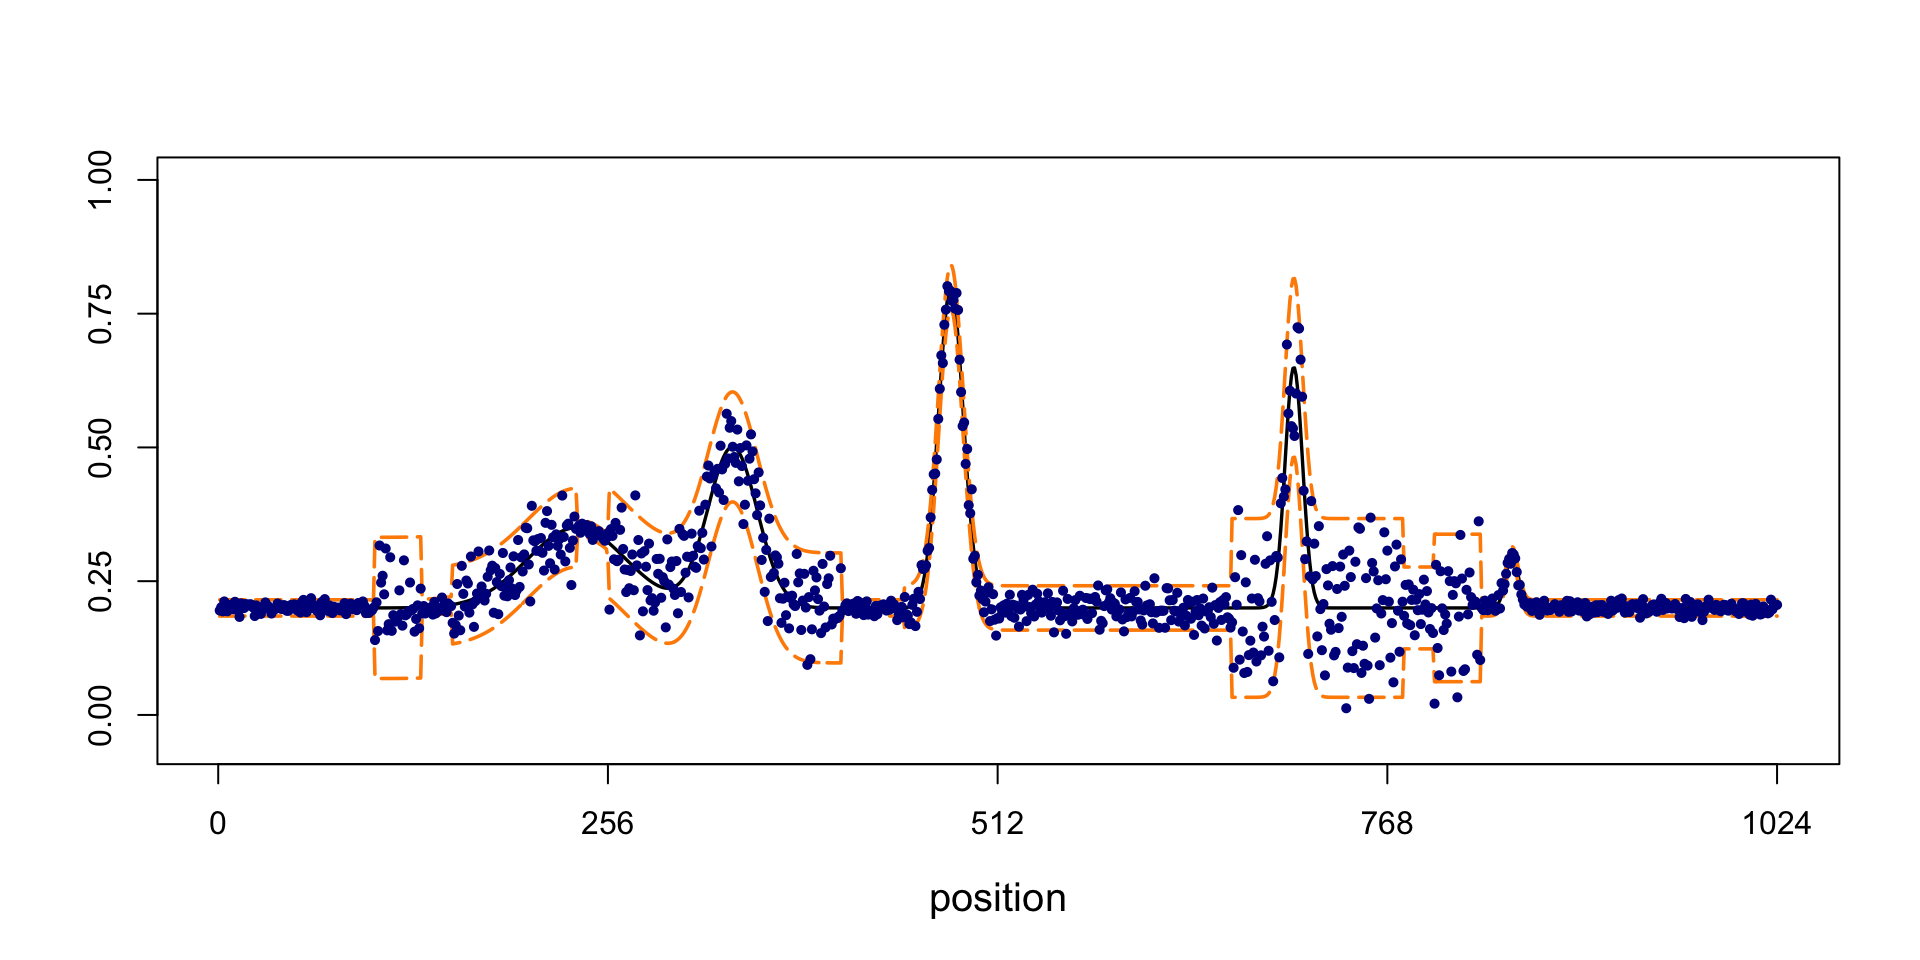
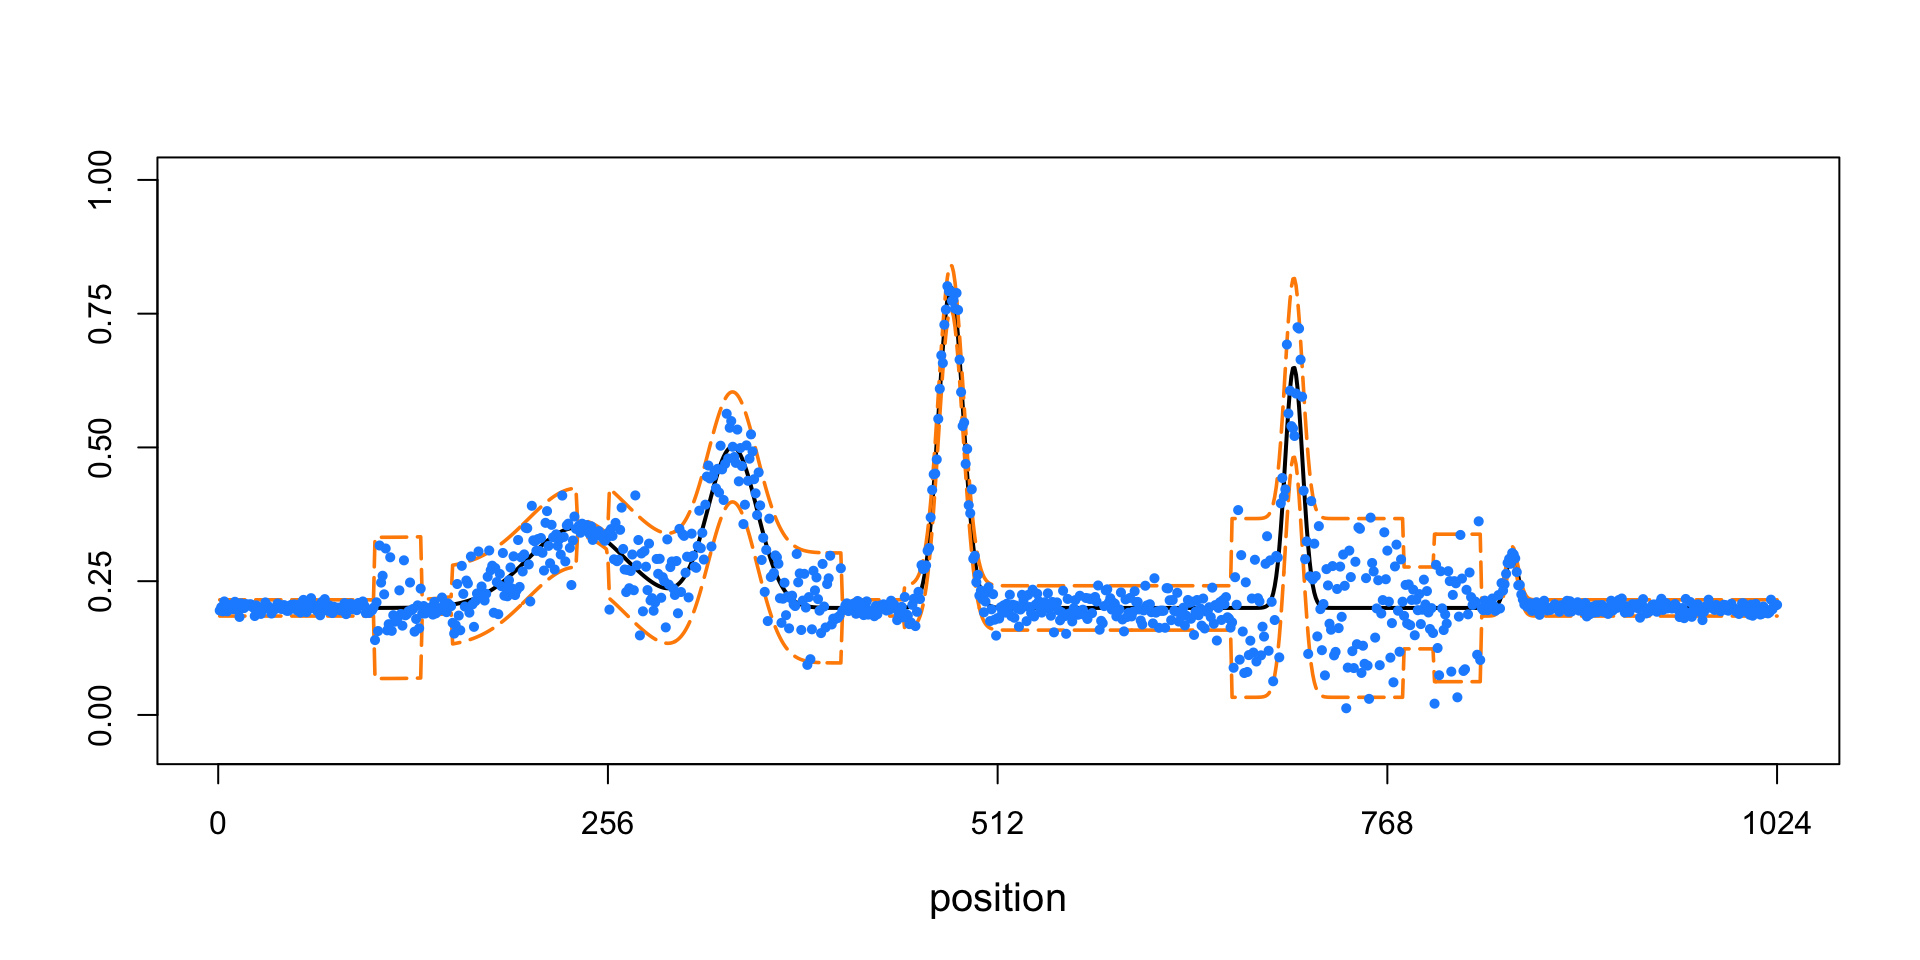
Added setup instructions to Spikes demo.

diff --git a/docs/spikesdemo.html b/docs/spikesdemo.html
@@ -26,9 +26,6 @@
 <script src="site_libs/navigation-1.1/tabsets.js"></script>
 <link href="site_libs/highlightjs-9.12.0/textmate.css" rel="stylesheet" />
 <script src="site_libs/highlightjs-9.12.0/highlight.js"></script>
-<link href="site_libs/font-awesome-5.0.13/css/fa-svg-with-js.css" rel="stylesheet" />
-<script src="site_libs/font-awesome-5.0.13/js/fontawesome-all.min.js"></script>
-<script src="site_libs/font-awesome-5.0.13/js/fa-v4-shims.min.js"></script>
 
 <style type="text/css">code{white-space: pre;}</style>
 <style type="text/css">
@@ -283,15 +280,12 @@ div.tocify {
     <div id="navbar" class="navbar-collapse collapse">
       <ul class="nav navbar-nav">
         <li>
-  <a href="index.html">Home</a>
+  <a href="index.html">Overview</a>
 </li>
       </ul>
       <ul class="nav navbar-nav navbar-right">
         <li>
-  <a href="https://github.com/stephenslab/smash-paper">
-    <span class="fa fa-github"></span>
-     
-  </a>
+  <a href="https://github.com/stephenslab/smash-paper">source</a>
 </li>
       </ul>
     </div><!--/.nav-collapse -->
@@ -321,36 +315,31 @@ div.section {
 </div>
 
 
-<p><strong>Last updated:</strong> 2018-10-12</p>
+<p><strong>Last updated:</strong> 2018-11-06</p>
 <strong>workflowr checks:</strong> <small>(Click a bullet for more information)</small>
 <ul>
 <li>
-<details>
-<p><summary> <strong style="color:blue;">✔</strong> <strong>R Markdown file:</strong> up-to-date </summary></p>
+<p><details> <summary> <strong style="color:blue;">✔</strong> <strong>R Markdown file:</strong> up-to-date </summary></p>
 <p>Great! Since the R Markdown file has been committed to the Git repository, you know the exact version of the code that produced these results.</p>
 </details>
 </li>
 <li>
-<details>
-<p><summary> <strong style="color:blue;">✔</strong> <strong>Environment:</strong> empty </summary></p>
+<p><details> <summary> <strong style="color:blue;">✔</strong> <strong>Environment:</strong> empty </summary></p>
 <p>Great job! The global environment was empty. Objects defined in the global environment can affect the analysis in your R Markdown file in unknown ways. For reproduciblity it’s best to always run the code in an empty environment.</p>
 </details>
 </li>
 <li>
-<details>
-<p><summary> <strong style="color:blue;">✔</strong> <strong>Seed:</strong> <code>set.seed(1)</code> </summary></p>
+<p><details> <summary> <strong style="color:blue;">✔</strong> <strong>Seed:</strong> <code>set.seed(1)</code> </summary></p>
 <p>The command <code>set.seed(1)</code> was run prior to running the code in the R Markdown file. Setting a seed ensures that any results that rely on randomness, e.g. subsampling or permutations, are reproducible.</p>
 </details>
 </li>
 <li>
-<details>
-<p><summary> <strong style="color:blue;">✔</strong> <strong>Session information:</strong> recorded </summary></p>
+<p><details> <summary> <strong style="color:blue;">✔</strong> <strong>Session information:</strong> recorded </summary></p>
 <p>Great job! Recording the operating system, R version, and package versions is critical for reproducibility.</p>
 </details>
 </li>
 <li>
-<details>
-<p><summary> <strong style="color:blue;">✔</strong> <strong>Repository version:</strong> <a href="https://github.com/stephenslab/smash-paper/tree/2841557f299d00337eda4d1536c342ecd4bbb7ce" target="_blank">2841557</a> </summary></p>
+<p><details> <summary> <strong style="color:blue;">✔</strong> <strong>Repository version:</strong> <a href="https://github.com/stephenslab/smash-paper/tree/f2e4790b8a3964136f44ddcb991b6114869af7e4" target="_blank">f2e4790</a> </summary></p>
 Great! You are using Git for version control. Tracking code development and connecting the code version to the results is critical for reproducibility. The version displayed above was the version of the Git repository at the time these results were generated. <br><br> Note that you need to be careful to ensure that all relevant files for the analysis have been committed to Git prior to generating the results (you can use <code>wflow_publish</code> or <code>wflow_git_commit</code>). workflowr only checks the R Markdown file, but you know if there are other scripts or data files that it depends on. Below is the status of the Git repository when the results were generated:
 <pre><code>
 Ignored files:
@@ -383,12 +372,10 @@ Ignored files:
     Ignored:    dsc/code/Wavelab850/MEXSource/dst_iii.mexmac
 
 </code></pre>
-Note that any generated files, e.g. HTML, png, CSS, etc., are not included in this status report because it is ok for generated content to have uncommitted changes.
-</details>
+Note that any generated files, e.g. HTML, png, CSS, etc., are not included in this status report because it is ok for generated content to have uncommitted changes. </details>
 </li>
 </ul>
-<details>
-<summary> <small><strong>Expand here to see past versions:</strong></small> </summary>
+<details> <summary> <small><strong>Expand here to see past versions:</strong></small> </summary>
 <ul>
 <table style="border-collapse:separate; border-spacing:5px;">
 <thead>
@@ -411,6 +398,40 @@ Message
 </tr>
 </thead>
 <tbody>
+<tr>
+<td style="text-align:left;">
+Rmd
+</td>
+<td style="text-align:left;">
+<a href="https://github.com/stephenslab/smash-paper/blob/f2e4790b8a3964136f44ddcb991b6114869af7e4/analysis/spikesdemo.Rmd" target="_blank">f2e4790</a>
+</td>
+<td style="text-align:left;">
+Peter Carbonetto
+</td>
+<td style="text-align:left;">
+2018-11-06
+</td>
+<td style="text-align:left;">
+wflow_publish(“spikesdemo.Rmd”)
+</td>
+</tr>
+<tr>
+<td style="text-align:left;">
+html
+</td>
+<td style="text-align:left;">
+<a href="https://cdn.rawgit.com/stephenslab/smash-paper/967f9c701367c2c25d630561e955437955feb31d/docs/spikesdemo.html" target="_blank">967f9c7</a>
+</td>
+<td style="text-align:left;">
+Peter Carbonetto
+</td>
+<td style="text-align:left;">
+2018-10-17
+</td>
+<td style="text-align:left;">
+Working on improved plots for chipseq.R.
+</td>
+</tr>
 <tr>
 <td style="text-align:left;">
 Rmd
@@ -618,17 +639,29 @@ wflow_publish(“spikesdemo.Rmd”)
 </tbody>
 </table>
 </ul>
-</details>
+<p></details></p>
 <hr />
-<p>This small demonstration illustrates key features of the SMASH method on a small, simulated data set with heteroskedastic variances. This code implements the example given in Sec. 4.1 of the paper.</p>
-<div id="set-up-environment" class="section level2">
-<h2>Set up environment</h2>
-<p>We begin by loading the ashr, smashr, scales, ggplot2 and cowplot packages, as well as some additional functions used in the code below.</p>
+<p>This small demonstration illustrates key features of the SMASH method on a small, simulated data set with spatially structured variances. This code implements the example presented in Sec. 4.1 of the paper.</p>
+<div id="initial-setup-instructions" class="section level2">
+<h2>Initial setup instructions</h2>
+<p>To run this example on your own computer, please follow these setup instructions. These instructions assume you already have R and/or RStudio installed on your computer.</p>
+<p>Download or clone the <a href="https://github.com/stephenslab/smash-paper">git repository</a> on your computer.</p>
+<p>Launch R, and change the working directory to be the <code>analysis</code> folder inside your local copy of the <code>smash-paper</code> git repository.</p>
+<p>Install some of the packages used here, and in the code below:</p>
+<pre class="r"><code>install.packages(c(&quot;devtools&quot;,&quot;ggplot2&quot;,&quot;cowplot&quot;))</code></pre>
+<p>Finally, install the ashr and smashr packages from GitHub:</p>
+<pre class="r"><code>library(devtools)
+install_github(&quot;stephens999/ashr&quot;,upgrade_dependencies = FALSE)
+install_github(&quot;stephenslab/smashr&quot;,upgrade_dependencies = FALSE)</code></pre>
+<p>See the “Session Info” at the bottom of this example for the versions of the software and R packages that were used to generate the results shown below.</p>
+</div>
+<div id="set-up-r-environment" class="section level2">
+<h2>Set up R environment</h2>
+<p>We begin by loading the ashr, smashr, ggplot2 and cowplot packages, as well as some additional functions used in the code below.</p>
 <pre class="r"><code>library(ashr)
 library(smashr)
-library(scales)
 library(ggplot2)
-suppressMessages(library(cowplot))
+library(cowplot)
 source(&quot;../code/misc.R&quot;)</code></pre>
 </div>
 <div id="define-the-spikes-mean-function" class="section level2">
@@ -647,7 +680,7 @@ mu.sp &lt;- (1 + mu.sp)/5</code></pre>
 </div>
 <div id="simulate-data" class="section level2">
 <h2>Simulate data</h2>
-<p>Simulate the noisy observations from the normal distribution with means that are given by the “spikes” function, and with spatially-structured variances given by the “clipped blocks” function.</p>
+<p>Simulate the noisy observations from the normal distribution with means that are given by the “Spikes” function, and with spatially structured variances given by the “Clipped Blocks” function.</p>
 <pre class="r"><code>pos &lt;- c(0.1,0.13,0.15,0.23,0.25,0.4,0.44,0.65,0.76,0.78,0.81)
 hgt &lt;- 2.88/5 * c(4,-5,3,-4,5,-4.2,2.1,4.3,-3.1,2.1,-4.2)
 sig.cb &lt;- rep(0,length(t))
@@ -661,14 +694,13 @@ x.sim  &lt;- rnorm(n,mu.sp,sig.cb)</code></pre>
 <p>Plot the simulated data set.</p>
 <pre class="r"><code>par(cex.axis = 1,cex.lab = 1.25)
 plot(mu.sp,type = &#39;l&#39;,ylim = c(-0.05,1),xlab = &quot;position&quot;,
-     ylab = &quot;&quot;,lwd = 1.7,xaxp = c(0,1024,4),yaxp = c(0,1,4))
+     ylab = &quot;&quot;,lwd = 2,xaxp = c(0,1024,4),yaxp = c(0,1,4))
 lines(mu.sp + 2*sig.cb,col = &quot;darkorange&quot;,lty = 5,lwd = 1.8)
 lines(mu.sp - 2*sig.cb,col = &quot;darkorange&quot;,lty = 5,lwd = 1.8)
-points(x.sim,cex = 0.7,pch = 16,col = &quot;darkblue&quot;)</code></pre>
+points(x.sim,cex = 0.7,pch = 16,col = &quot;dodgerblue&quot;)</code></pre>
 <p><img src="figure/spikesdemo.Rmd/plot-simulated-data-1.png" width="960" style="display: block; margin: auto;" /></p>
-<details>
-<summary><em>Expand here to see past versions of plot-simulated-data-1.png:</em></summary>
-<table style = "border-collapse:separate; border-spacing:5px;">
+<details> <summary><em>Expand here to see past versions of plot-simulated-data-1.png:</em></summary>
+<table style="border-collapse:separate; border-spacing:5px;">
 <thead>
 <tr>
 <th style="text-align:left;">
@@ -707,8 +739,8 @@ Peter Carbonetto
 </tr>
 </tbody>
 </table>
-</details>
-<p>This plot shows the “spikes” mean function (the black line), +/- 2 standard deviations (the orange lines), and the simulated data (the blue points).</p>
+<p></details></p>
+<p>This plot shows the “spikes” mean function (the black line), +/- 2 standard deviations (the orange lines), and the simulated data (the light blue points).</p>
 </div>
 <div id="run-smash-and-ti-thresholding" class="section level2">
 <h2>Run SMASH and TI thresholding</h2>
@@ -746,9 +778,8 @@ hist(wc.sim[4,],breaks = 2,xlab = &quot;observed wavelet coefficients&quot;,
      yaxp = c(0,600,6),main = &quot;&quot;)
 hist(wc.sim[10,],breaks = 40,add = TRUE,col = &quot;darkorange&quot;)</code></pre>
 <p><img src="figure/spikesdemo.Rmd/plot-wc-histogram-1.png" width="576" style="display: block; margin: auto;" /></p>
-<details>
-<summary><em>Expand here to see past versions of plot-wc-histogram-1.png:</em></summary>
-<table style = "border-collapse:separate; border-spacing:5px;">
+<details> <summary><em>Expand here to see past versions of plot-wc-histogram-1.png:</em></summary>
+<table style="border-collapse:separate; border-spacing:5px;">
 <thead>
 <tr>
 <th style="text-align:left;">
@@ -776,7 +807,7 @@ Peter Carbonetto
 </tr>
 </tbody>
 </table>
-</details>
+<p></details></p>
 <p>Observe that the scale = 7 WCs (dark blue) are much more concentrated near zero because the signal is smoother at this finer scale.</p>
 <p>Plot the observed wavelet coefficients (at scales 1 and 7 only) vs. the “shrunken” wavelet coefficients estimated by adaptive shrinkage.</p>
 <pre class="r"><code>par(cex.axis = 1,cex.lab = 1.25)
@@ -789,9 +820,8 @@ points(wc.sim[10,],wc.sim.shrunk[[9]]$PosteriorMean,pch = 20,cex = 1,
 points(wc.sim[4,],wc.sim.shrunk[[3]]$PosteriorMean,pch = 20,cex = 1,
        col = &quot;darkblue&quot;)</code></pre>
 <p><img src="figure/spikesdemo.Rmd/wc-scatterplot-1.png" width="480" style="display: block; margin: auto;" /></p>
-<details>
-<summary><em>Expand here to see past versions of wc-scatterplot-1.png:</em></summary>
-<table style = "border-collapse:separate; border-spacing:5px;">
+<details> <summary><em>Expand here to see past versions of wc-scatterplot-1.png:</em></summary>
+<table style="border-collapse:separate; border-spacing:5px;">
 <thead>
 <tr>
 <th style="text-align:left;">
@@ -819,7 +849,7 @@ Peter Carbonetto
 </tr>
 </tbody>
 </table>
-</details>
+<p></details></p>
 <p>Observe that the scale = 7 WCs (dark blue) are strongly shrunk toward zero, whereas the scale = 1 WCs (orange) are not shrunk nearly as much; SMASH infers from the data that the scale = 7 WCs are heavily concentrated around zero, and consequently SMASH shrinks them more strongly.</p>
 <p>Plot the observed wavelet coefficients (at scale 7 only) vs. the “shrunken” wavelet coefficients estimated by adaptive shrinkage in order to see how the amount of shrinkage depends on the standard error (s.e.) in the observations.</p>
 <pre class="r"><code>wc.sig.3 &lt;- 1/wc.pres[[3]]
@@ -834,9 +864,8 @@ p &lt;- ggplot(data.frame(observed = wc.sim[4,],
   theme_cowplot()
 print(p)</code></pre>
 <p><img src="figure/spikesdemo.Rmd/wc-scatterplot-2-1.png" width="480" style="display: block; margin: auto;" /></p>
-<details>
-<summary><em>Expand here to see past versions of wc-scatterplot-2-1.png:</em></summary>
-<table style = "border-collapse:separate; border-spacing:5px;">
+<details> <summary><em>Expand here to see past versions of wc-scatterplot-2-1.png:</em></summary>
+<table style="border-collapse:separate; border-spacing:5px;">
 <thead>
 <tr>
 <th style="text-align:left;">
@@ -864,7 +893,7 @@ Peter Carbonetto
 </tr>
 </tbody>
 </table>
-</details>
+<p></details></p>
 <p>From this plot, it is evident that SMASH shrinks WCs differently depending on their precision; specifically, WCs that are less precise—i.e., higher standard error (s.e.)—are shrunk more strongly toward zero.</p>
 <p>Finally, we plot the ground-truth signal (the mean function, drawn as a black line) and the signals recovered by TI thresholding (light blue line) and SMASH (the red line).</p>
 <pre class="r"><code>par(cex.axis = 1)
@@ -873,9 +902,8 @@ plot(mu.sp,type = &quot;l&quot;,col = &quot;black&quot;,lwd = 3,xlab = &quot;pos
 lines(mu.ti,col = &quot;dodgerblue&quot;,lwd = 3)
 lines(mu.smash,col = &quot;orangered&quot;,lwd = 3)</code></pre>
 <p><img src="figure/spikesdemo.Rmd/plot-mean-signal-vs-estimates-1.png" width="960" style="display: block; margin: auto;" /></p>
-<details>
-<summary><em>Expand here to see past versions of plot-mean-signal-vs-estimates-1.png:</em></summary>
-<table style = "border-collapse:separate; border-spacing:5px;">
+<details> <summary><em>Expand here to see past versions of plot-mean-signal-vs-estimates-1.png:</em></summary>
+<table style="border-collapse:separate; border-spacing:5px;">
 <thead>
 <tr>
 <th style="text-align:left;">
@@ -914,7 +942,7 @@ Peter Carbonetto
 </tr>
 </tbody>
 </table>
-</details>
+<p></details></p>
 <p>In this example, the smoothed signal from SMASH is noticeably more accurate than using TI thresholding (in which the variance is estimated by running the median absolute deviation, or “RMAD”, method). The TI thresholding estimate shows notable artifacts.</p>
 </div>
 <div id="session-information" class="section level2">
@@ -935,15 +963,15 @@ Peter Carbonetto
 # [1] stats     graphics  grDevices utils     datasets  methods   base     
 # 
 # other attached packages:
-# [1] cowplot_0.9.3 ggplot2_3.0.0 scales_0.5.0  smashr_1.2-0  ashr_2.2-15  
+# [1] cowplot_0.9.3 ggplot2_3.1.0 smashr_1.2-0  ashr_2.2-23  
 # 
 # loaded via a namespace (and not attached):
 #  [1] Rcpp_0.12.19      bindr_0.1.1       pillar_1.2.1     
-#  [4] compiler_3.4.3    git2r_0.23.0      plyr_1.8.4       
+#  [4] plyr_1.8.4        compiler_3.4.3    git2r_0.23.0     
 #  [7] workflowr_1.1.1   R.methodsS3_1.7.1 R.utils_2.6.0    
 # [10] bitops_1.0-6      iterators_1.0.9   tools_3.4.3      
-# [13] digest_0.6.17     tibble_1.4.2      gtable_0.2.0     
-# [16] evaluate_0.11     lattice_0.20-35   pkgconfig_2.0.2  
+# [13] digest_0.6.17     tibble_1.4.2      evaluate_0.11    
+# [16] gtable_0.2.0      lattice_0.20-35   pkgconfig_2.0.2  
 # [19] rlang_0.2.2       Matrix_1.2-12     foreach_1.4.4    
 # [22] yaml_2.2.0        parallel_3.4.3    bindrcpp_0.2.2   
 # [25] withr_2.1.2       dplyr_0.7.6       stringr_1.3.1    
@@ -951,12 +979,13 @@ Peter Carbonetto
 # [31] tidyselect_0.2.4  rprojroot_1.3-2   grid_3.4.3       
 # [34] glue_1.3.0        data.table_1.11.4 R6_2.2.2         
 # [37] rmarkdown_1.10    purrr_0.2.5       magrittr_1.5     
-# [40] whisker_0.3-2     backports_1.1.2   codetools_0.2-15 
-# [43] htmltools_0.3.6   MASS_7.3-48       assertthat_0.2.0 
-# [46] colorspace_1.4-0  labeling_0.3      wavethresh_4.6.8 
-# [49] stringi_1.2.4     Rmosek_8.0.69     lazyeval_0.2.1   
-# [52] doParallel_1.0.11 pscl_1.5.2        munsell_0.4.3    
-# [55] truncnorm_1.0-8   SQUAREM_2017.10-1 R.oo_1.21.0</code></pre>
+# [40] whisker_0.3-2     backports_1.1.2   scales_0.5.0     
+# [43] codetools_0.2-15  htmltools_0.3.6   MASS_7.3-48      
+# [46] assertthat_0.2.0  colorspace_1.4-0  labeling_0.3     
+# [49] wavethresh_4.6.8  stringi_1.2.4     Rmosek_8.0.69    
+# [52] lazyeval_0.2.1    doParallel_1.0.11 pscl_1.5.2       
+# [55] munsell_0.4.3     truncnorm_1.0-8   SQUAREM_2017.10-1
+# [58] R.oo_1.21.0</code></pre>
 </div>
 
 <script type="text/x-mathjax-config">
